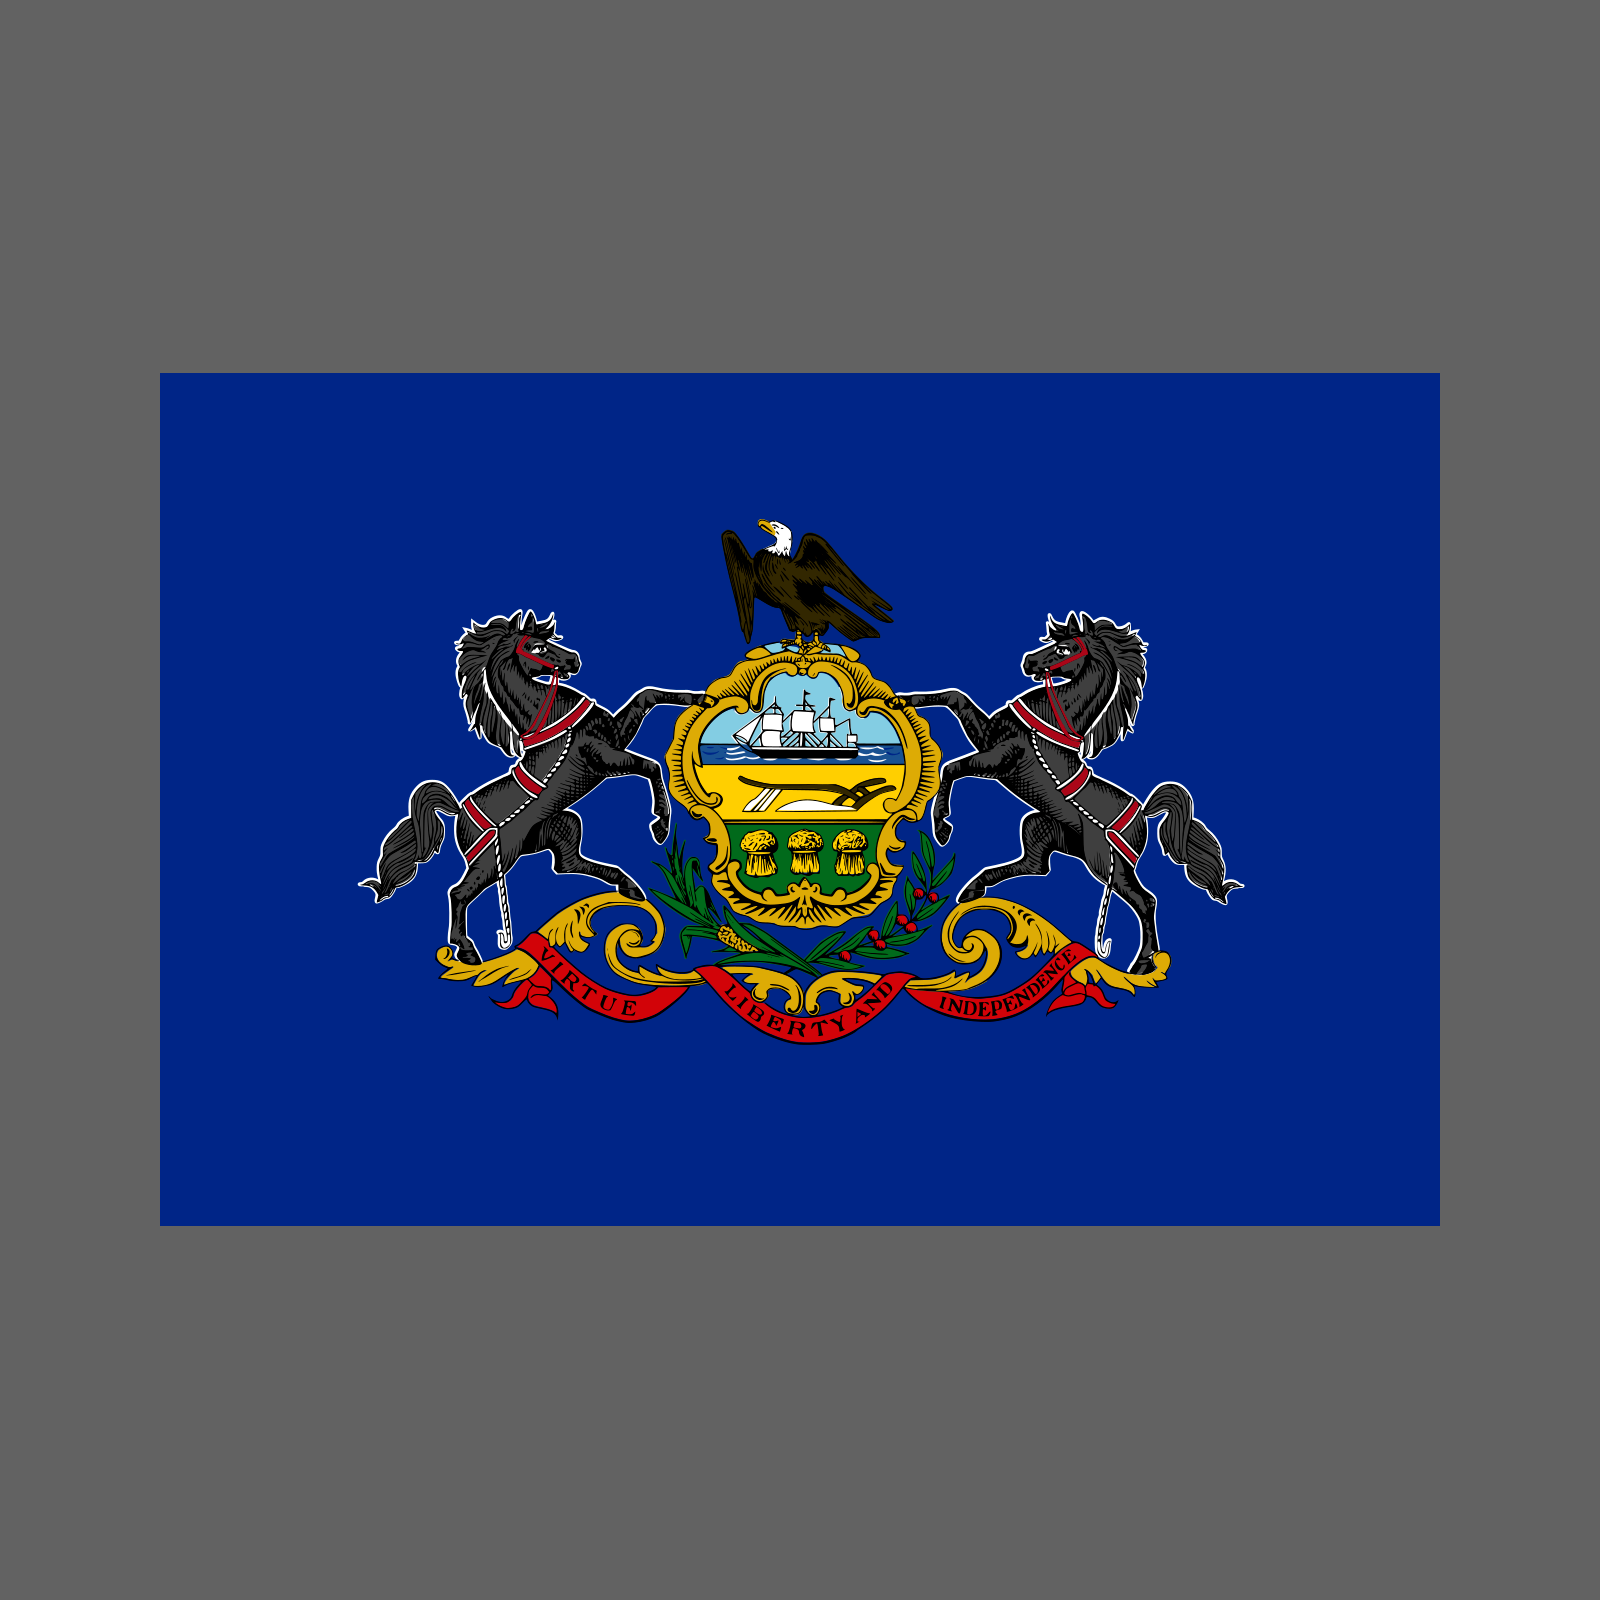
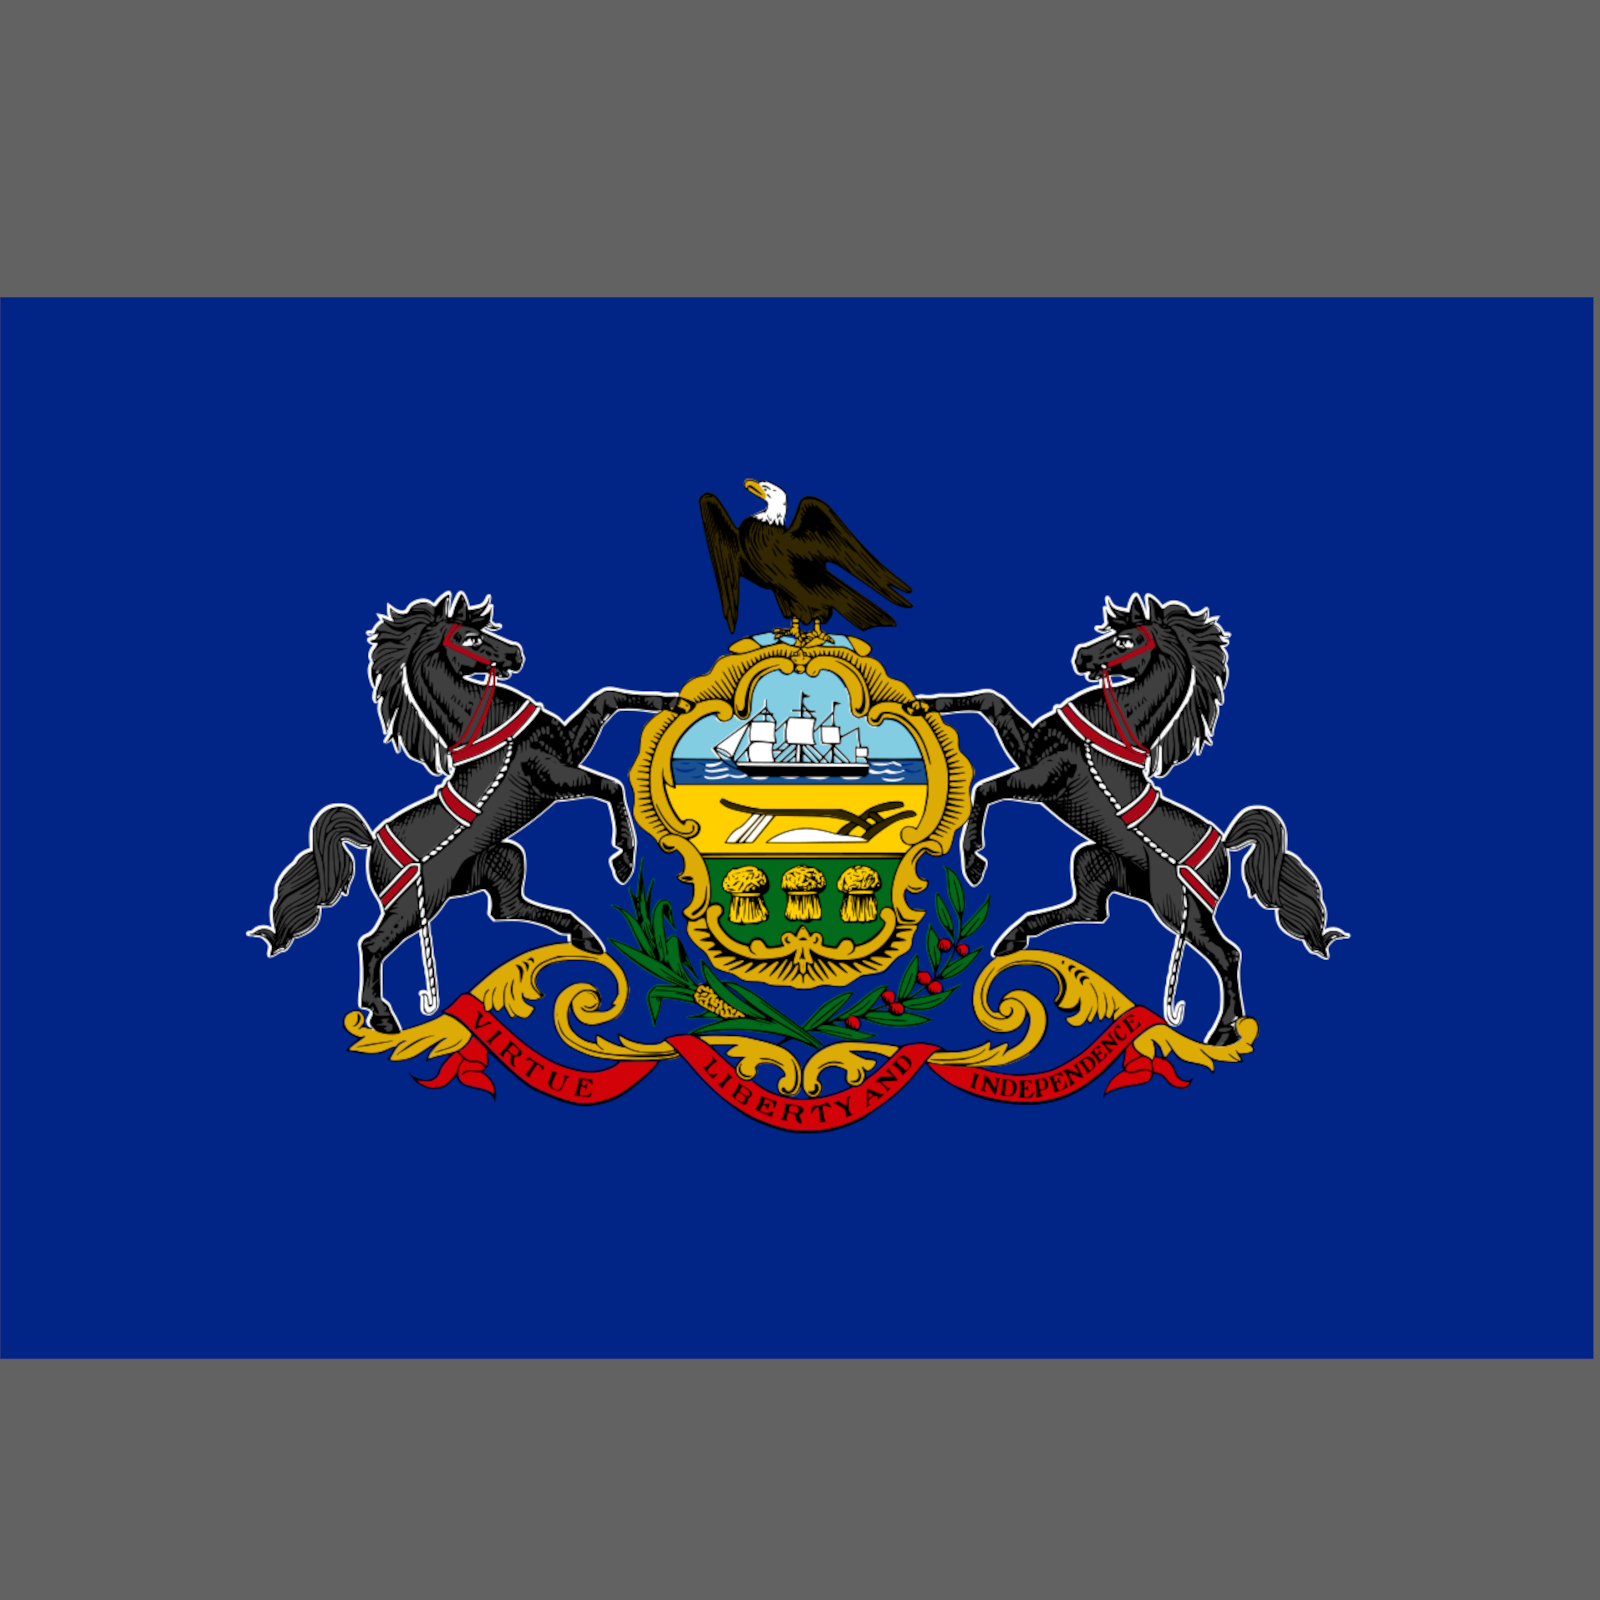
fix covers

diff --git a/_posts/2020-11-06-commonwelth-of-pennsylvania.md b/_posts/2020-11-06-commonwelth-of-pennsylvania.md
@@ -1,7 +1,7 @@
 ---
 title: 'Commonwealth of Pennsylvania'
 date: 2020-11-06 00:00:00
-featured_image: '/images/blog/20201106/2020-11-06-penn-flag.png'
+featured_image: '/images/blog/20201106/2020-11-06-penn-flag-main-cover.png'
 excerpt: งงมากว่าทำไม ผู้ประกาศ CNN หลายคนพยายามมากที่จะพูดว่า "Commonwelth" of Pennsylvania แทนที่จะเป็น "The State" of Pennsylvania
 ---
 
